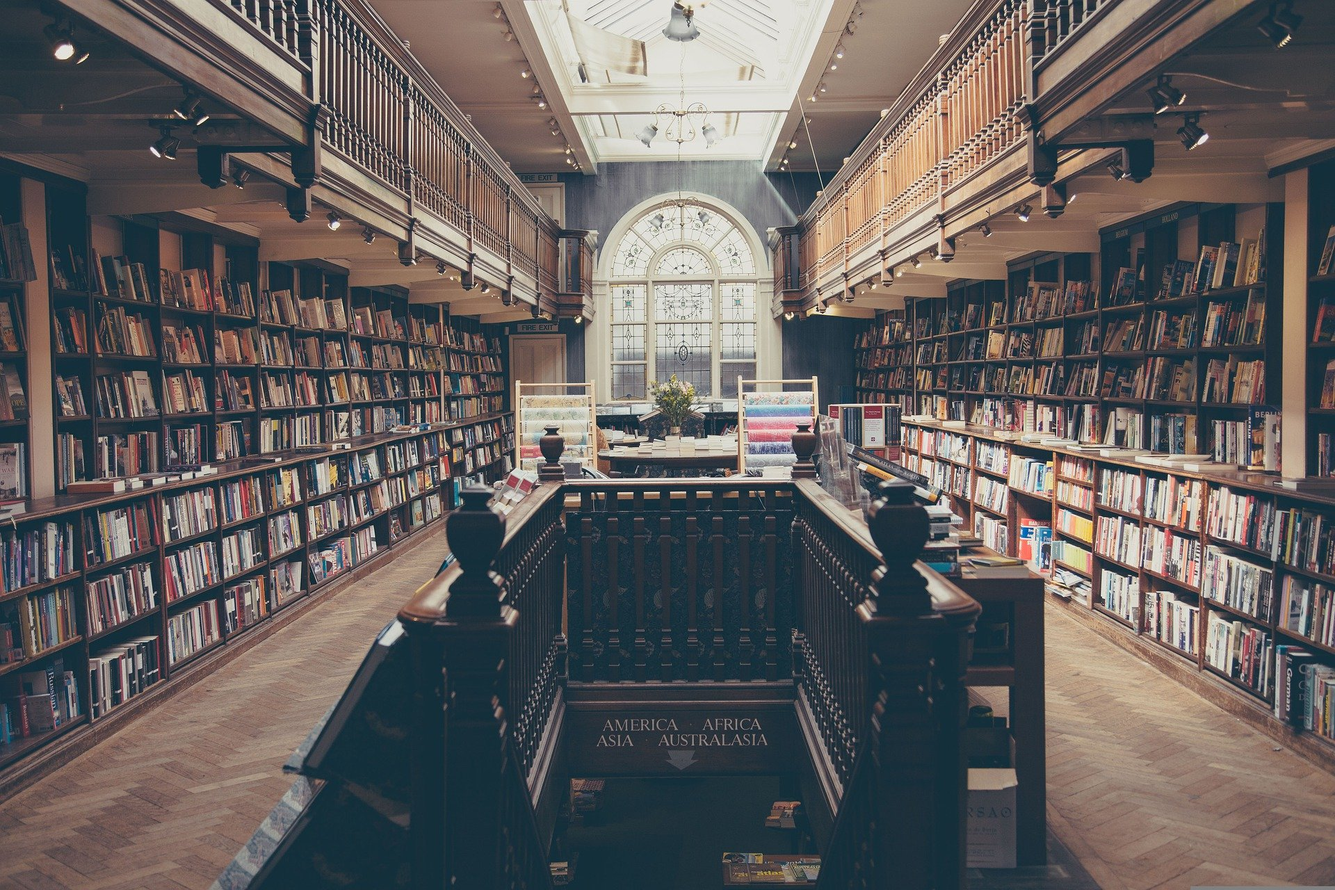
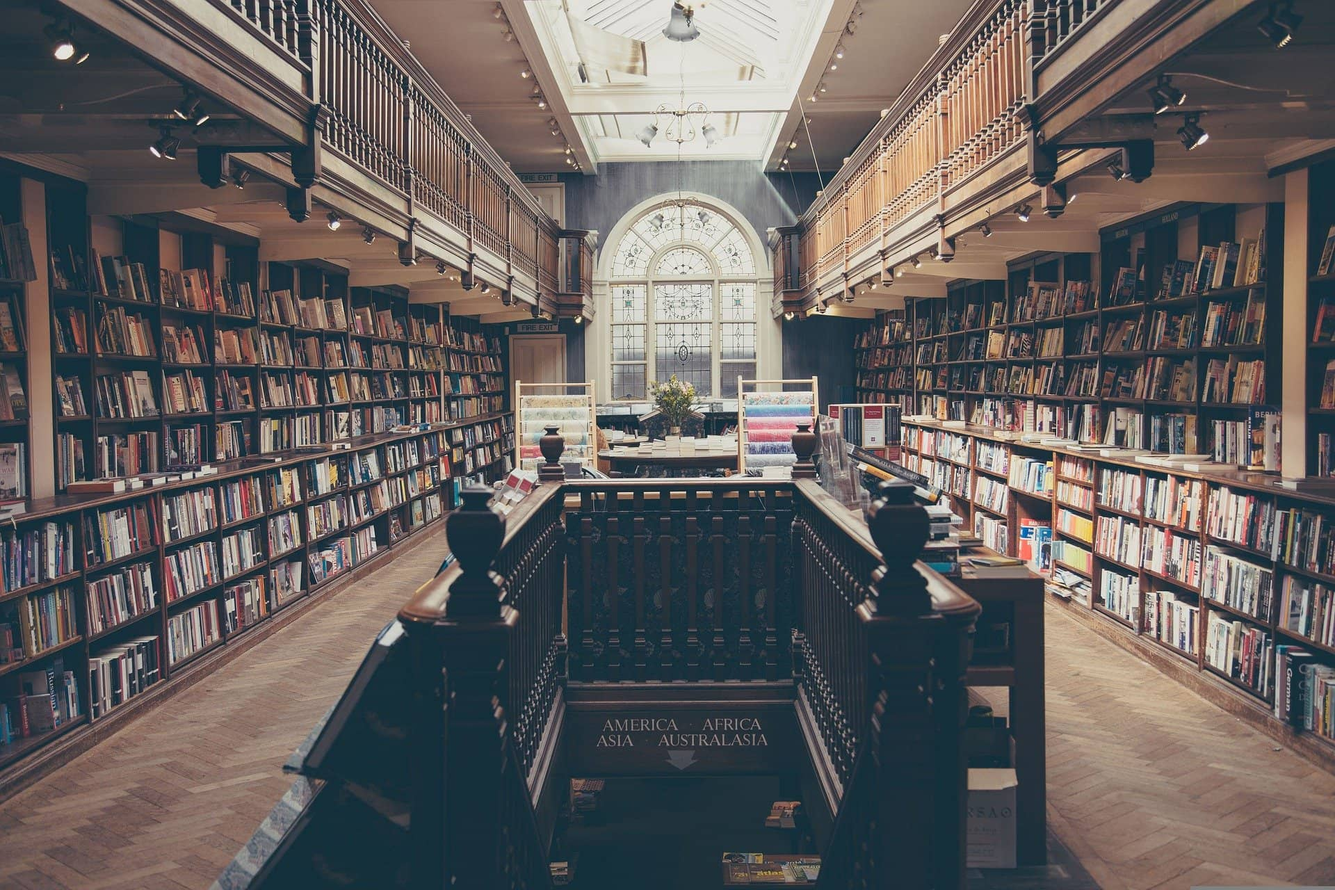
0.1.9 - App web completa - Imagenes comprimidas - Lista para producción

diff --git a/src/components/ContactUs/Contact.jsx b/src/components/ContactUs/Contact.jsx
@@ -1,13 +1,23 @@
-import React from 'react'
+import React, { useState, useEffect } from 'react'
+import { useLocation } from 'react-router-dom'
 import { MdMailOutline } from 'react-icons/md'
 import { AiOutlineWhatsApp, AiFillInstagram } from 'react-icons/ai'
 
 import './Contact.scss'
 
 const Contact = () => {
+    const [lang, setLang] = useState(localStorage.getItem('lang'))
+    const location = useLocation()
+
+    useEffect(() => {
+        const langFromPath = location.pathname.split('/')[1]
+
+        setLang(langFromPath)
+    }, [location])
+
     return (
         <div className='section-content'>
-            <p className='subtitle'>Nuestras redes</p>
+            <p className='subtitle'>{lang === 'es' ? 'Nuestras redes' : 'Our social networks'}</p>
             <div className='contact'>
                 <div className='contact__social'>
                     <div className='contact__social-mail'>
@@ -55,24 +65,24 @@ const Contact = () => {
                 <div className='contact__maps'>
                     <div className='contact__maps-san-rafael'>
                         <p>San Rafael</p>
-                        <p>Provincia de Mendoza</p>
+                        <p>{lang === 'es' ? 'Provincia de Mendoza' : 'Mendoza province'}</p>
                         <iframe src="https://www.google.com/maps/embed?pb=!1m18!1m12!1m3!1d3412077.7295504455!2d-69.26521409377436!3d-33.368268342119904!2m3!1f0!2f0!3f0!3m2!1i1024!2i768!4f13.1!3m3!1m2!1s0x967907fdb13d06a7%3A0xe0fb2796d473309d!2sSan%20Rafael%2C%20Mendoza!5e0!3m2!1ses-419!2sar!4v1664635558427!5m2!1ses-419!2sar" style={{ border: 0 }} allowFullScreen="" loading="lazy" title='Mapa de San Rafael' referrerPolicy="no-referrer-when-downgrade"></iframe>
                     </div>
                     <div className='contact__maps-tupungato'>
                         <p>Tupungato</p>
-                        <p>Provincia de Mendoza</p>
+                        <p>{lang === 'es' ? 'Provincia de Mendoza' : 'Mendoza province'}</p>
                         <iframe src="https://www.google.com/maps/embed?pb=!1m18!1m12!1m3!1d3253835.7554337564!2d-69.30489703930161!3d-34.93946176778414!2m3!1f0!2f0!3f0!3m2!1i1024!2i768!4f13.1!3m3!1m2!1s0x967dcd07cab22bc7%3A0x2cb3614db155dff9!2sTupungato%2C%20Mendoza!5e0!3m2!1ses-419!2sar!4v1664635673273!5m2!1ses-419!2sar" style={{ border: 0 }} allowFullScreen="" loading="lazy"
                             title='Mapa de Tupungato' referrerPolicy="no-referrer-when-downgrade"></iframe>
                     </div>
                     <div className='contact__maps-mendoza'>
-                        <p>Provincia de Mendoza</p>
+                        <p>{lang === 'es' ? 'Provincia de Mendoza' : 'Mendoza province'}</p>
                         <p>Argentina</p>
                         <iframe src="https://www.google.com/maps/embed?pb=!1m18!1m12!1m3!1d6679145.0404286515!2d-71.97614104958949!3d-35.17404248423927!2m3!1f0!2f0!3f0!3m2!1i1024!2i768!4f13.1!3m3!1m2!1s0x9679745b5dd5fffd%3A0x902586f1d047824!2sMendoza!5e0!3m2!1ses-419!2sar!4v1664655077272!5m2!1ses-419!2sar" style={{ border: 0 }} allowFullScreen="" loading="lazy" title='Mapa de San Rafael' referrerPolicy="no-referrer-when-downgrade"></iframe>
                     </div>
                 </div>
                 <div className='border-social' />
                 <div className='contact__end'>
-                    Hasta pronto
+                    {lang === 'es' ? 'Hasta pronto' : 'See you soon'}
                 </div>
             </div>
         </div>

diff --git a/src/components/Services/OurServices.jsx b/src/components/Services/OurServices.jsx
@@ -5,6 +5,7 @@ import './OurServices.scss'
 
 const OurServices = () => {
     const [display, setDisplay] = useState(['flex', 'none'])
+    const [lang, setLang] = useState(localStorage.getItem('lang'))
     const location = useLocation()
 
     useEffect(() => {
@@ -12,13 +13,13 @@ const OurServices = () => {
 
         if (langFromPath === 'es') {
             setDisplay(['flex', 'none'])
-
         }
 
         if (langFromPath === 'en') {
             setDisplay(['none', 'flex'])
-
         }
+
+        setLang(langFromPath)
     }, [location])
 
     return (
@@ -52,7 +53,7 @@ const OurServices = () => {
                 <p>Soon we will offer viticulture courses and workshops in English focused on our wine region and the rich language of the world of wines. Located in the country’s region with the strongest viticultural production potential, we feel honored to have the privilege of making connections around the world of wines from the cradle of our local terroirs.</p>
 
                 <div className='end-text'>
-                    <Link to='/contact'>
+                    <Link to={`/${lang}/contact`}>
                         Contact us
                     </Link>
                 </div>
@@ -85,7 +86,7 @@ const OurServices = () => {
                 {/* <div className='border' /> */}
 
                 <div className='end-text'>
-                    <Link to='/contact'>
+                    <Link to={`/${lang}/contact`}>
                         Contáctanos
                     </Link>
                 </div>

diff --git a/src/components/AboutUs/AboutUs.jsx b/src/components/AboutUs/AboutUs.jsx
@@ -30,8 +30,10 @@ const AboutUs = () => {
 
                 <p>We both studied at the National University of La Plata, where we first met. Later on, we decided to head to Mendoza where we met again and this project was born.</p>
 
+                <div className='border' />
                 <p>Originally from Guaminí, Noelia works online and in-person as an English techer in Tupungato, the city where she currently resides. Lorena is based in San Rafael and works mostly translating, proofreading and copyediting, as well as subtitling audiovisual material. Likewise, we both specialize in teaching ESL In-company and in international exams preparation.</p>
 
+                <div className='border' />
                 <p>As language workers, we believe in the value of communication not only as a tool for knowledge but as a philosophy of life.</p>
 
                 <div className='about-us__img'>

diff --git a/src/App.css b/src/App.css
@@ -54,7 +54,7 @@
   }
 
   .background-services {
-    background-image: url('./assets/img/jpg/library-mobile-2.jpg');
+    background-image: url('./assets/img/jpg/library-mobile.jpg');
     opacity: .8;
   }
 
